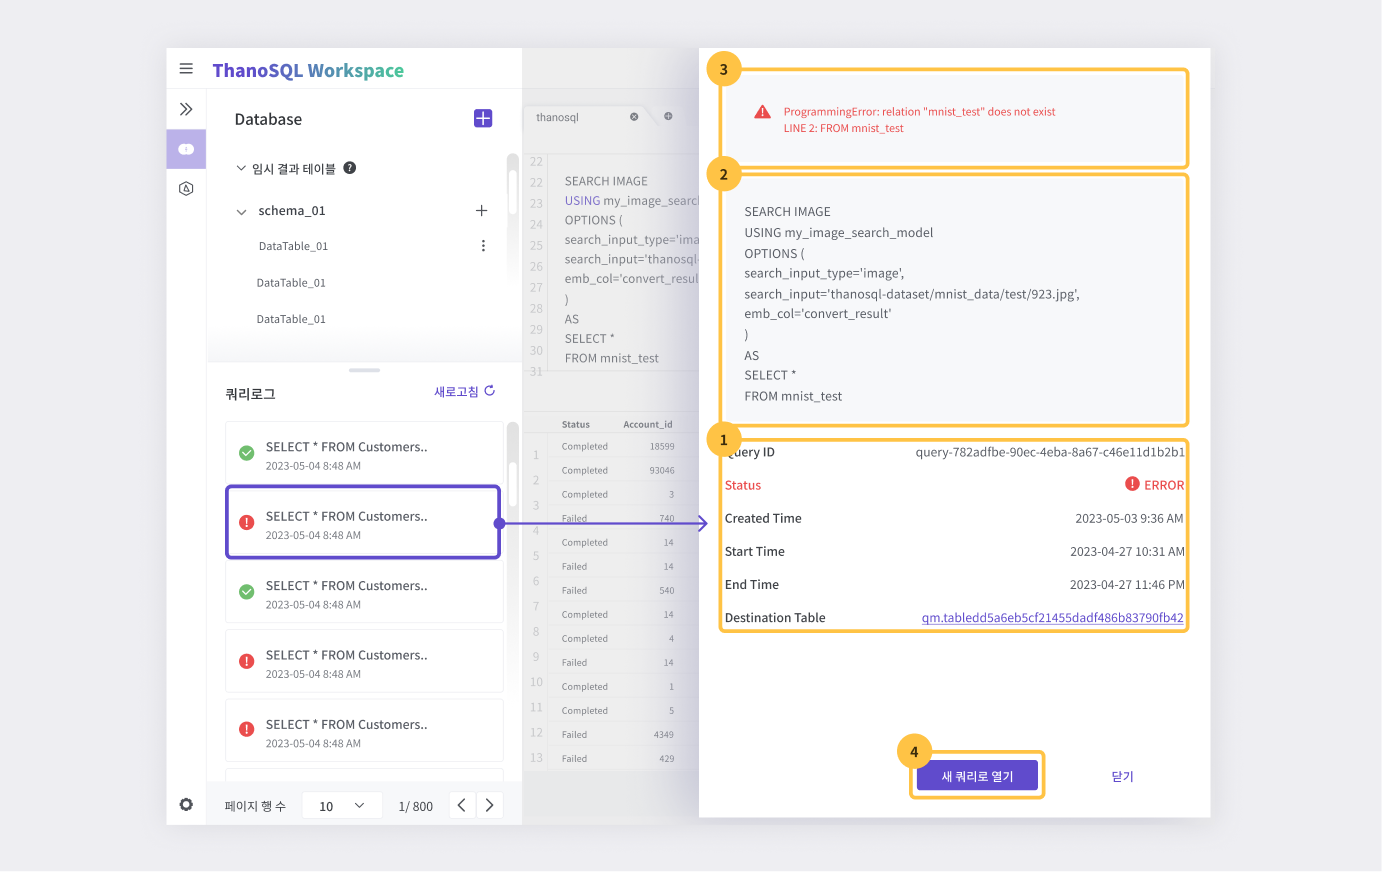
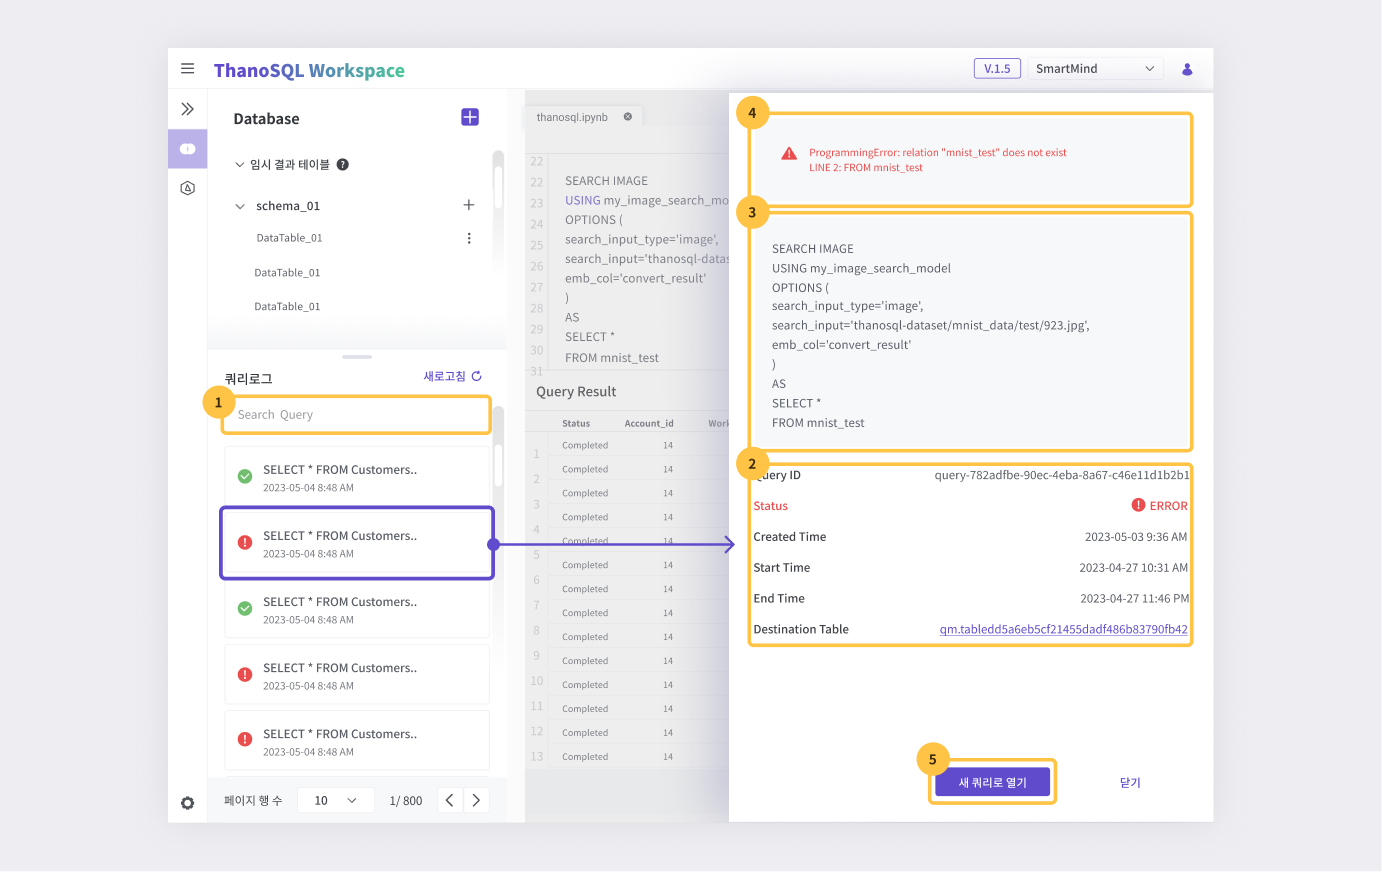
Docs_v.1.5_쿼리로그 부분 내용 추가

diff --git a/docs/ko/getting_started/paas/workspace/query_manager.md b/docs/ko/getting_started/paas/workspace/query_manager.md
@@ -186,6 +186,10 @@ Query Manager에서 실행한 모든 쿼리는 기록되어 쿼리 로그 섹션
 
 [![IMAGE](../../../img/getting_started/paas/workspace/qm_img_16.png){: style="max-height:none"}](../../../img/getting_started/paas/workspace/qm_img_16.png)
 
+#### 쿼리문 검색
+
+쿼리 구문 입력 시 유사한 쿼리 구문으로 실행된 로그 목록을 검색해 줍니다
+
 #### 상세 정보 창
 
 쿼리 로그를 클릭하면 해당 쿼리의 상세 정보가 우측에 표시됩니다.
